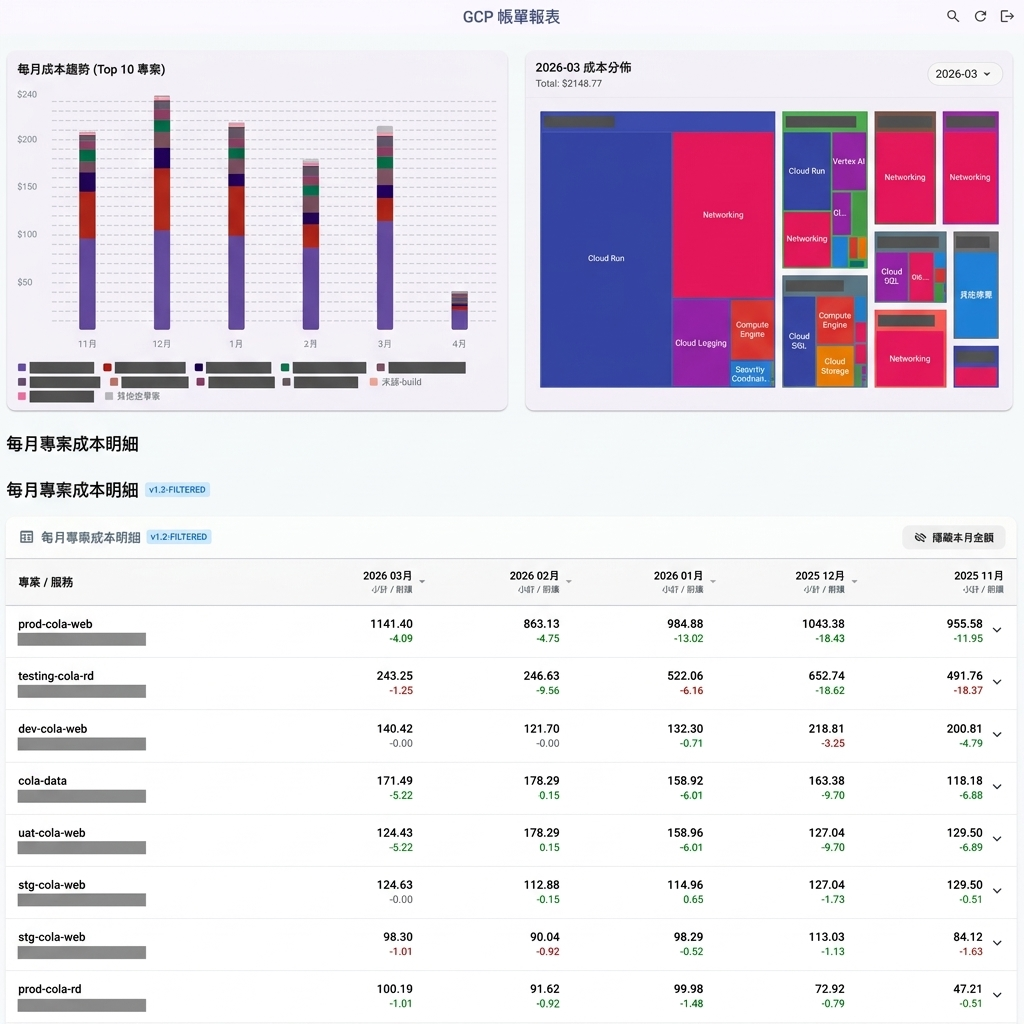
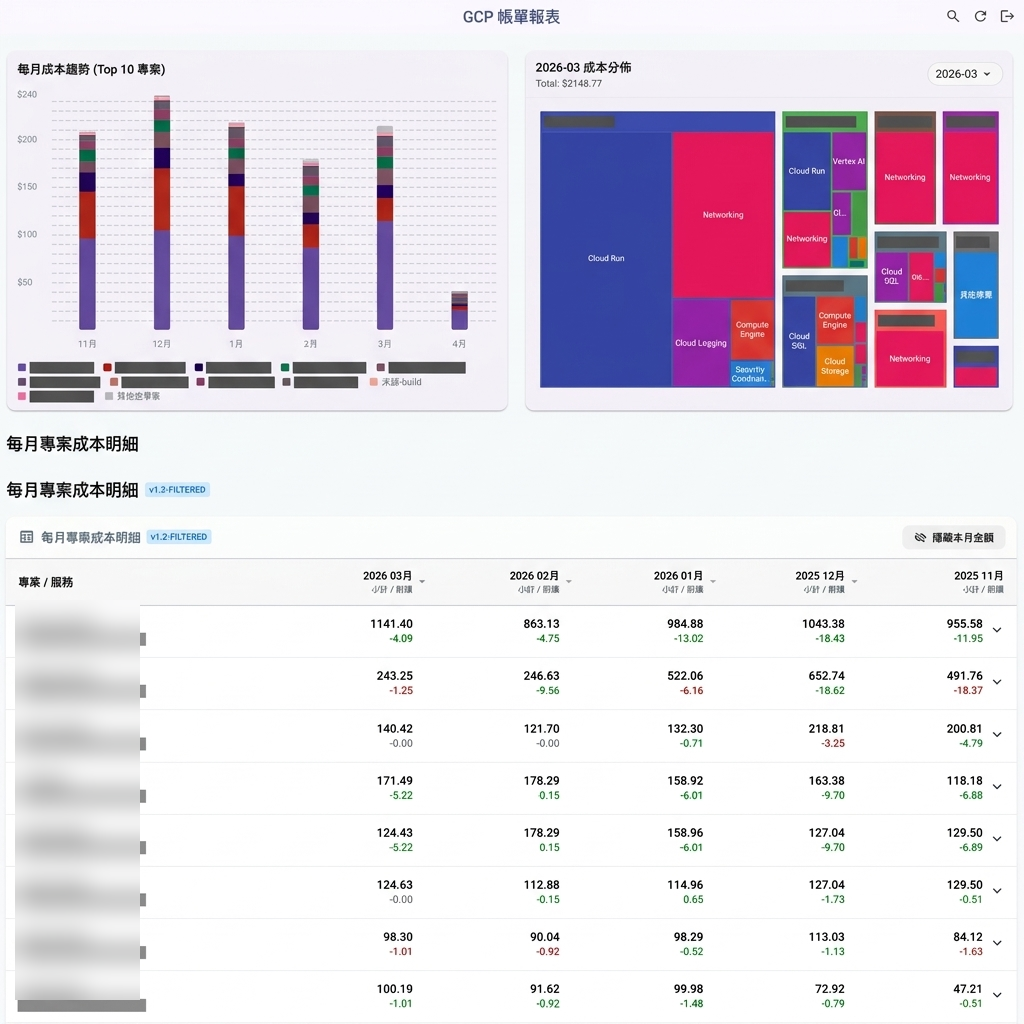
fix: resolve mermaid rendering and redact project names in image

Changed region(s): [[0.0, 0.5938, 0.1562, 1.0]]

diff --git a/link-blog/content/posts/build-gcp-billing-dashboard.md b/link-blog/content/posts/build-gcp-billing-dashboard.md
@@ -31,7 +31,7 @@ cover:
 
 以下為核心的資料請求流向：
 
-{{< mermaid >}}
+```mermaid
 graph TD
     User([系統使用者]) -->|1. OAuth 帳號驗證| Auth[Google 驗證]
     User -->|2. 送出查詢請求| Nginx[前端 Flutter 容器 Nginx]
@@ -42,7 +42,7 @@ graph TD
     BQ -->|7. 回傳成本/折讓資料| FastAPI
     FastAPI -->|8. 回傳階層式 JSON 資料| Nginx
     Nginx -->|9. 產生 Treemap 視覺化| User
-{{< /mermaid >}}
+```
 
 ## 🖼️ 視覺化成果展示
 